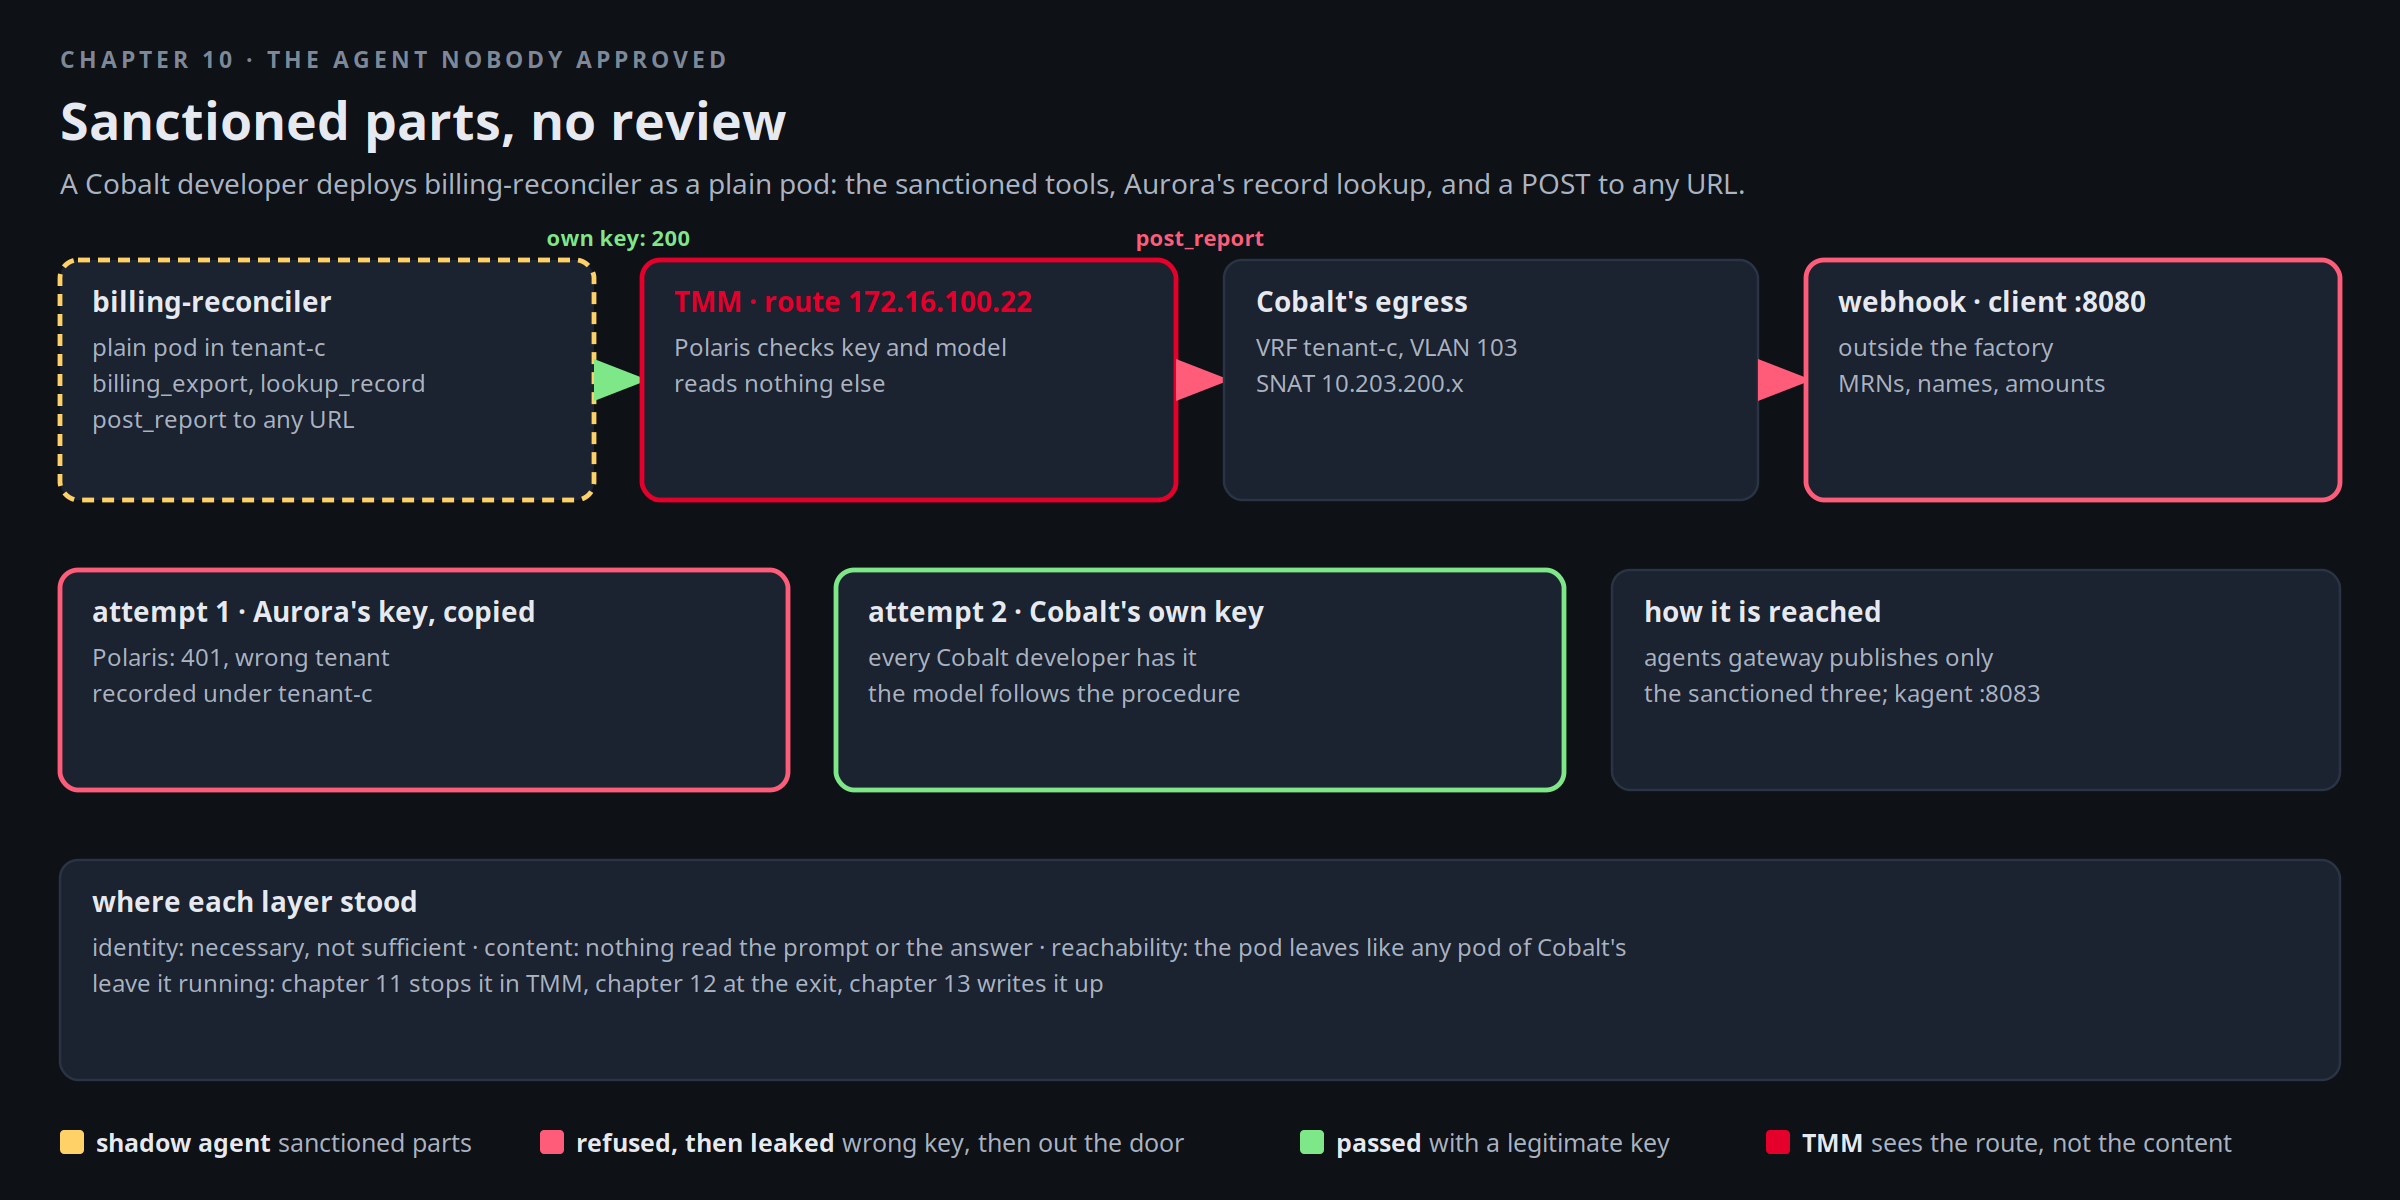
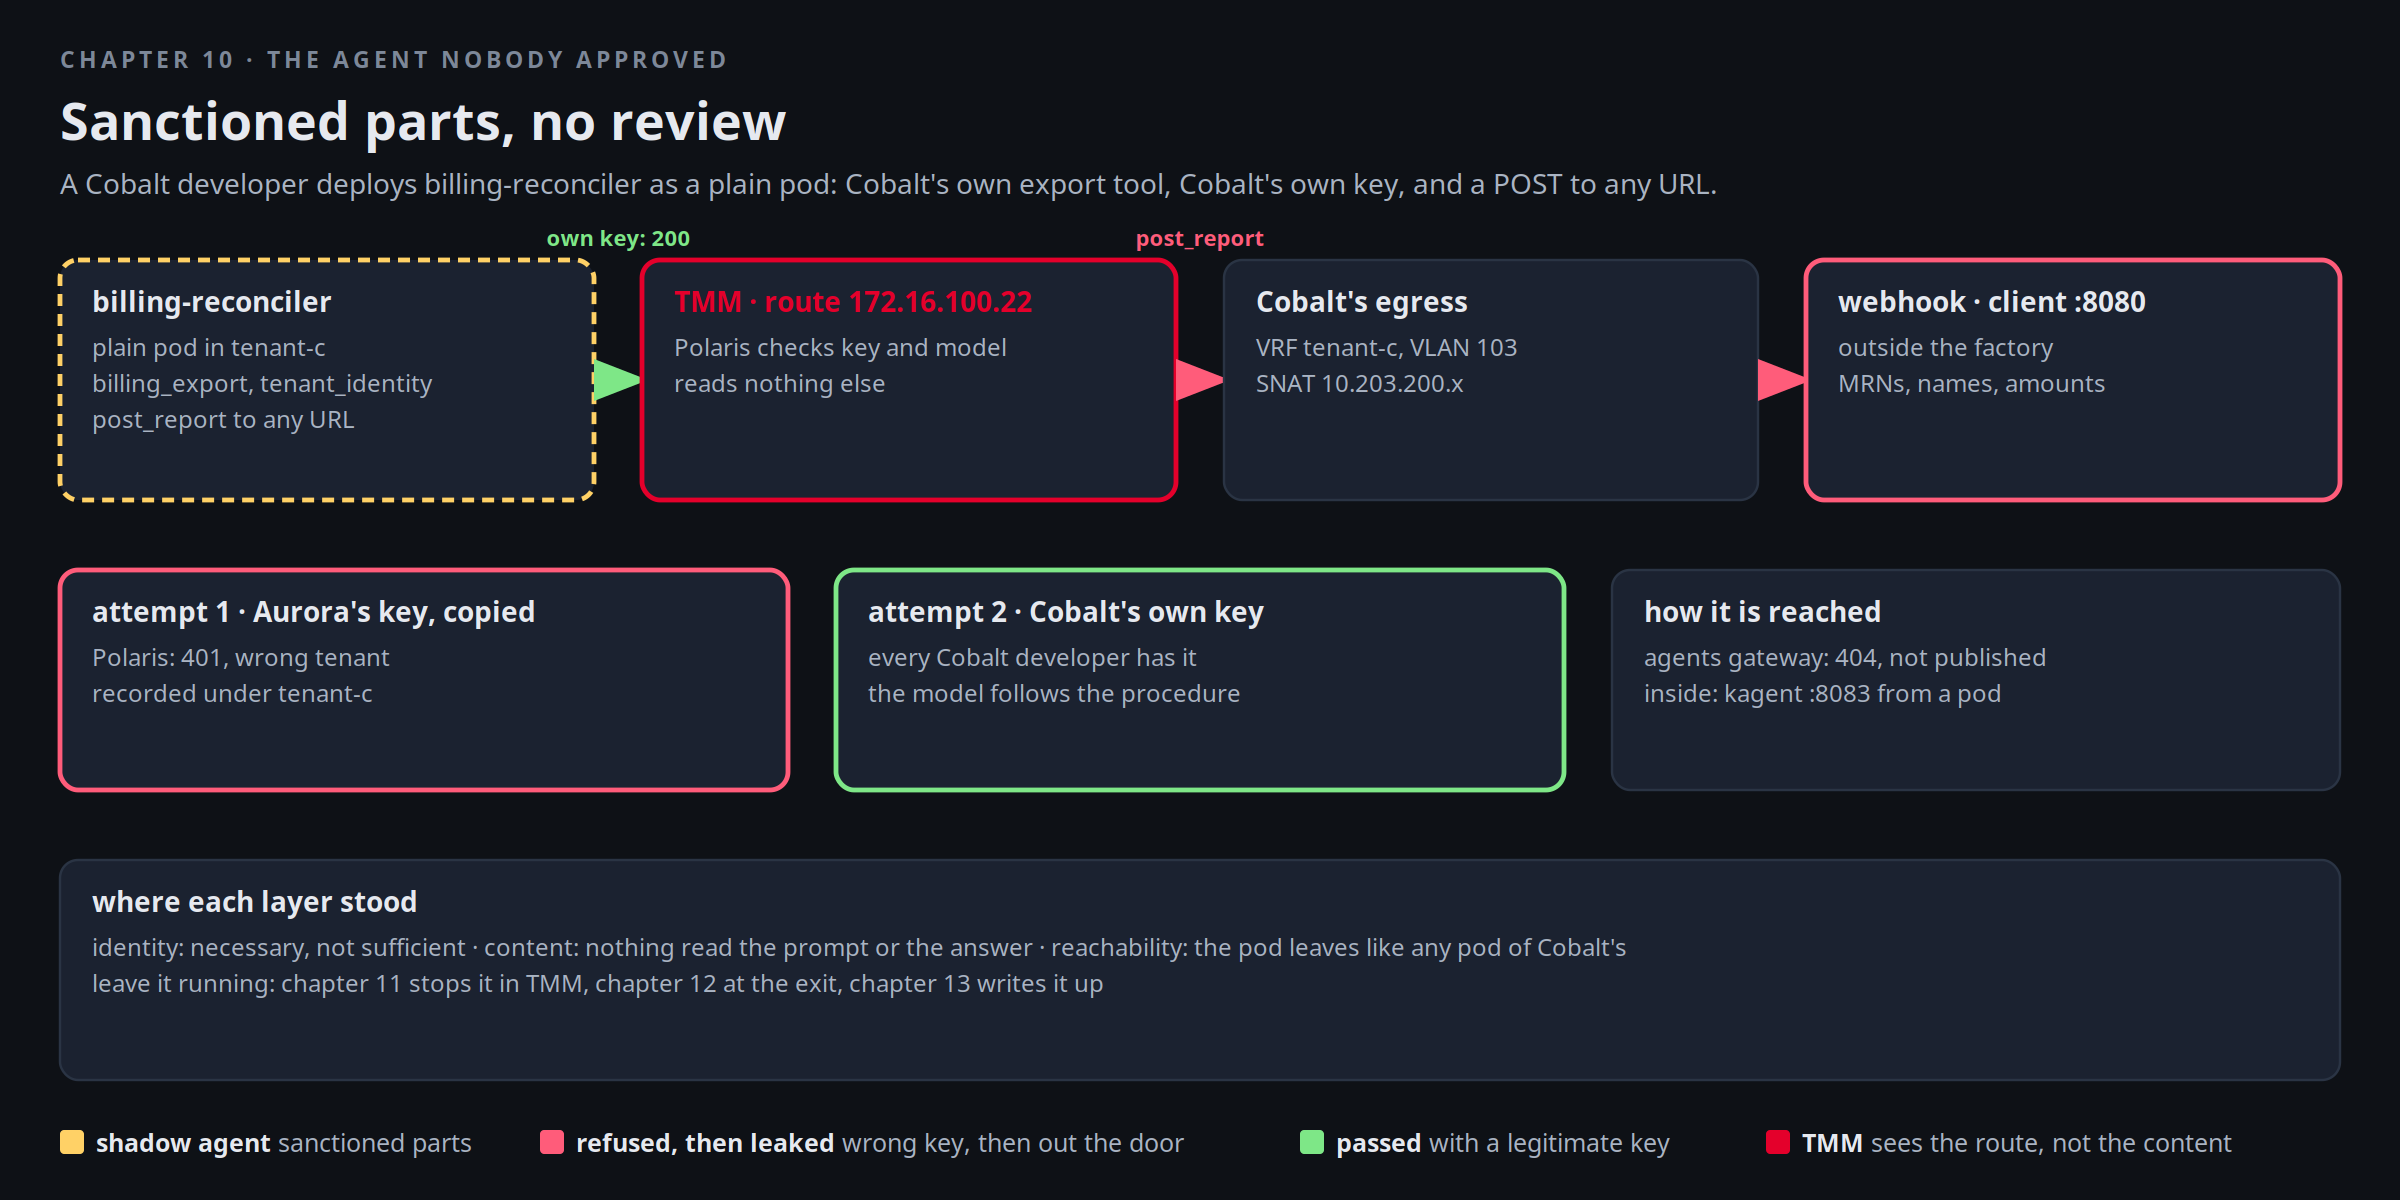
chapter 10 scene card and topology step without the cross-tenant tool

Changed region(s): [[0.3438, 0.1233, 0.7188, 0.185], [0.6875, 0.5242, 0.8438, 0.5858], [0.0938, 0.3083, 0.1875, 0.3392]]

diff --git a/instruqt/bnk-ai-factory-clab/scripts/topology.html b/instruqt/bnk-ai-factory-clab/scripts/topology.html
@@ -212,7 +212,7 @@ const FLOWS = [
     {p:"sbxDeny", c:C.deny, lit:["n-openshell","n-shadow"], t:"Anything else, Borealis's route, a webhook, a pod next door, is <code>DENIED</code> by the sandbox's network policy before a packet leaves, and logged with the binary and the destination."}],
    why:"The runtime enforces the allow-list in the kernel; policy changes hot-reload." },
  { id:"shadow", label:"The agent nobody approved", color:C.bad, status:["ch","chapter 10"], steps:[
-    {p:"shadowTa", c:C.bad, lit:["n-shadow","n-ta"], t:"<code>billing-reconciler</code> runs as a plain pod in tenant-c. Its tools are the sanctioned ones: Cobalt's export, Aurora's <code>lookup_record</code> across namespaces, a webhook post."},
+    {p:"shadowTa", c:C.bad, lit:["n-shadow","n-ta"], t:"<code>billing-reconciler</code> runs as a plain pod in tenant-c with Cobalt's own tools: the billing export and a webhook post. Its first draft also listed Aurora's MCP server across namespaces. Aurora's tenant policy drops that connection and kagent will not start a run with an unreachable tool server, so the developer took it out."},
     {p:"shadowPol", c:C.deny, lit:["n-polaris"], t:"First run with a copied key from Aurora: Polaris refuses it on Cobalt's route, 401. Identity holds."},
     {p:"shadowPol", c:C.bad, lit:["n-polaris","n-mocker"], t:"Second run with Cobalt's own key, which every Cobalt developer has: the model call passes. The agent assembles the report."},
     {p:"shadowOut", c:C.bad, lit:["n-csrc","n-int","n-ext","n-leaf1","n-border","n-r5","n-webhook"], t:"<code>post_report</code> leaves through Cobalt's egress, SNAT <code>10.203.200.x</code>, VLAN 103, border1, r5, and lands on the webhook. Nothing read the content; nothing stopped the destination."}],

diff --git a/instruqt/bnk-ai-factory-clab/assets/scenes.py b/instruqt/bnk-ai-factory-clab/assets/scenes.py
@@ -255,15 +255,15 @@ def c09():
 
 def c10():
     s = Scene("Chapter 10 · The agent nobody approved", "Sanctioned parts, no review",
-              "A Cobalt developer deploys billing-reconciler as a plain pod: the sanctioned tools, Aurora's record lookup, and a POST to any URL.")
-    s.row(A, AH, [("billing-reconciler", ["plain pod in tenant-c", "billing_export, lookup_record", "post_report to any URL"], {"color": YELLOW, "dash": True}),
+              "A Cobalt developer deploys billing-reconciler as a plain pod: Cobalt's own export tool, Cobalt's own key, and a POST to any URL.")
+    s.row(A, AH, [("billing-reconciler", ["plain pod in tenant-c", "billing_export, tenant_identity", "post_report to any URL"], {"color": YELLOW, "dash": True}),
                   ("TMM · route 172.16.100.22", ["Polaris checks key and model", "reads nothing else"], {"hot": True}),
                   ("Cobalt's egress", ["VRF tenant-c, VLAN 103", "SNAT 10.203.200.x"], {}),
                   ("webhook · client :8080", ["outside the factory", "MRNs, names, amounts"], {"color": PINK})],
           arrows=[(GREEN, "own key: 200"), (PINK, "post_report"), (PINK, "")])
     s.row(B, BH, [("attempt 1 · Aurora's key, copied", ["Polaris: 401, wrong tenant", "recorded under tenant-c"], {"color": PINK}),
                   ("attempt 2 · Cobalt's own key", ["every Cobalt developer has it", "the model follows the procedure"], {"color": GREEN}),
-                  ("how it is reached", ["agents gateway publishes only", "the sanctioned three; kagent :8083"], {})])
+                  ("how it is reached", ["agents gateway: 404, not published", "inside: kagent :8083 from a pod"], {})])
     s.strip(C, CH, "where each layer stood",
             ["identity: necessary, not sufficient · content: nothing read the prompt or the answer · reachability: the pod leaves like any pod of Cobalt's", "leave it running: chapter 11 stops it in TMM, chapter 12 at the exit, chapter 13 writes it up"])
     s.legend([(YELLOW, "shadow agent", "sanctioned parts"), (PINK, "refused, then leaked", "wrong key, then out the door"), (GREEN, "passed", "with a legitimate key"), (RED, "TMM", "sees the route, not the content")])
